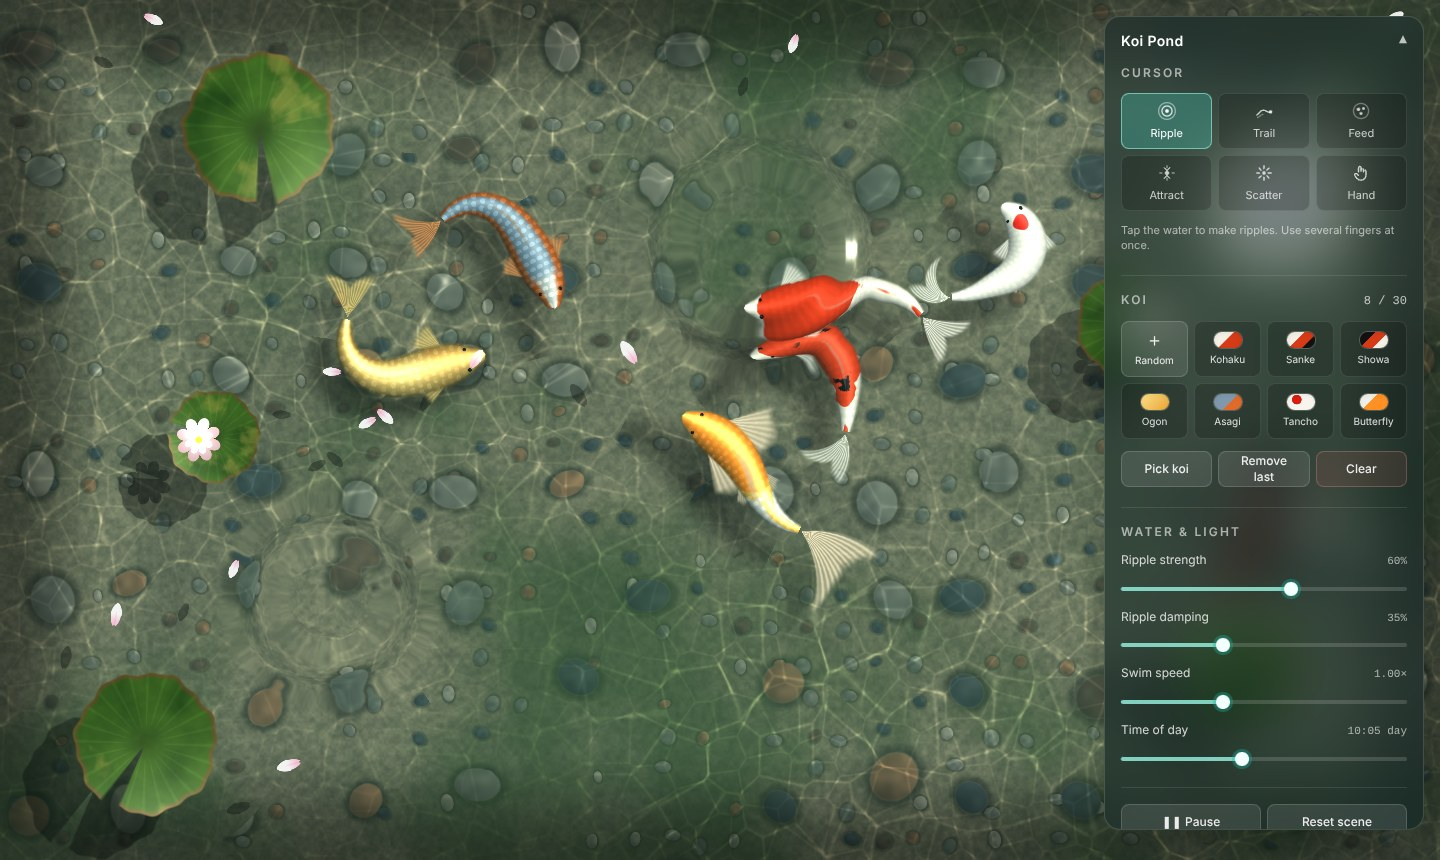
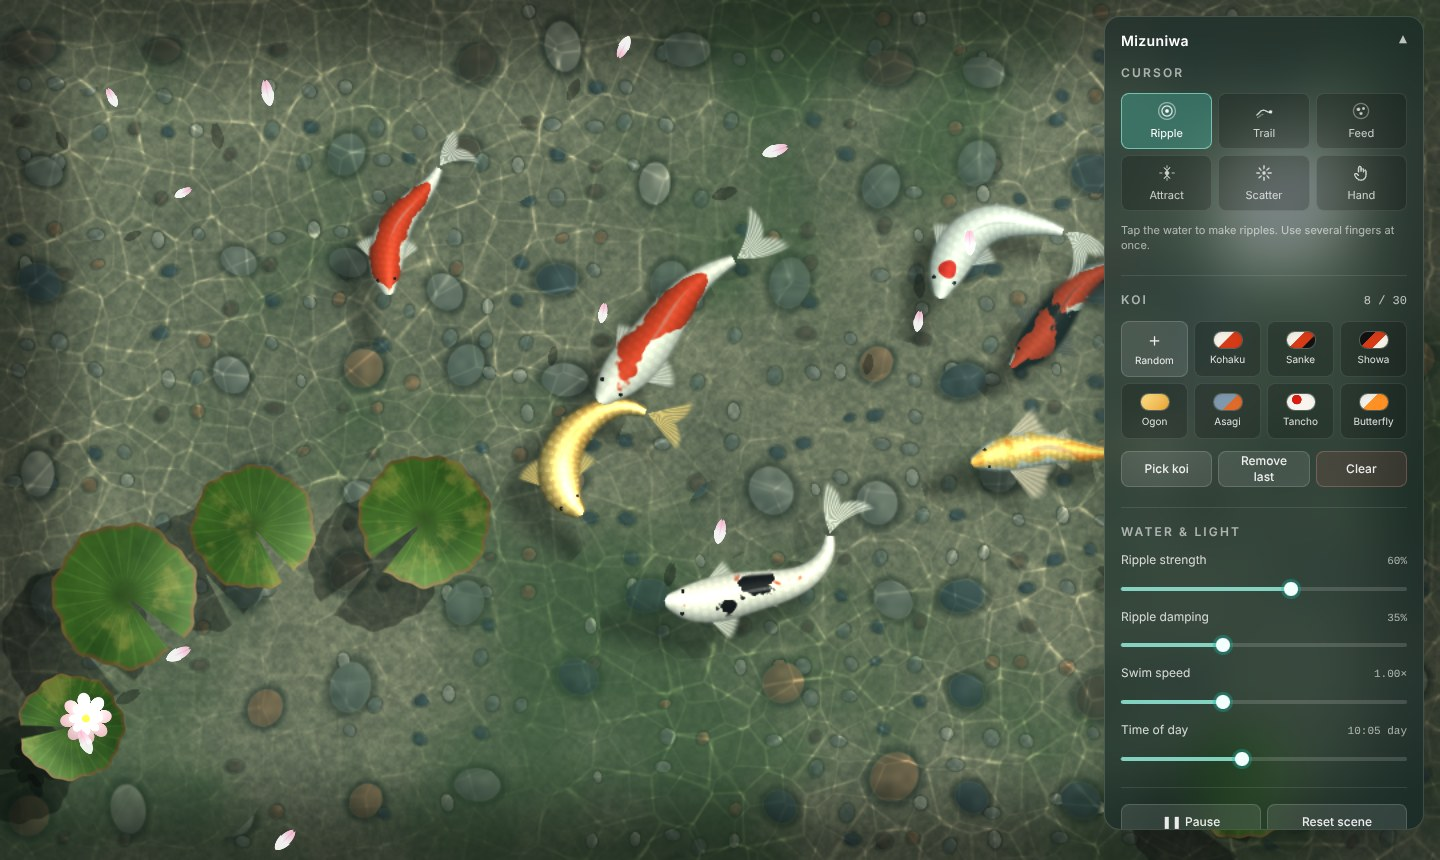
docs: refresh screenshot with the Mizuniwa name

diff --git a/README.md b/README.md
@@ -2,7 +2,7 @@
 
 _水庭 — "water garden"._ A koi pond you can touch.
 
-![Koi pond with Asagi, Ogon, Kohaku and Tancho koi swimming among lily pads, ripple rings refracting the pebble floor, and the control panel on the right](docs/screenshot.jpg)
+![Mizuniwa: Kohaku, Sanke, Showa, Ogon, Tancho and Butterfly koi swimming over a pebble floor with caustics, lily pads and a water lily on the left, and the control panel on the right](docs/screenshot.jpg)
 
 An interactive, realistic koi pond in the browser. Koi with spine-driven swimming school around a pebble pond. You can poke the water and watch ripples refract the floor, feed the fish, scare them, or drag a finger through the water.
 
